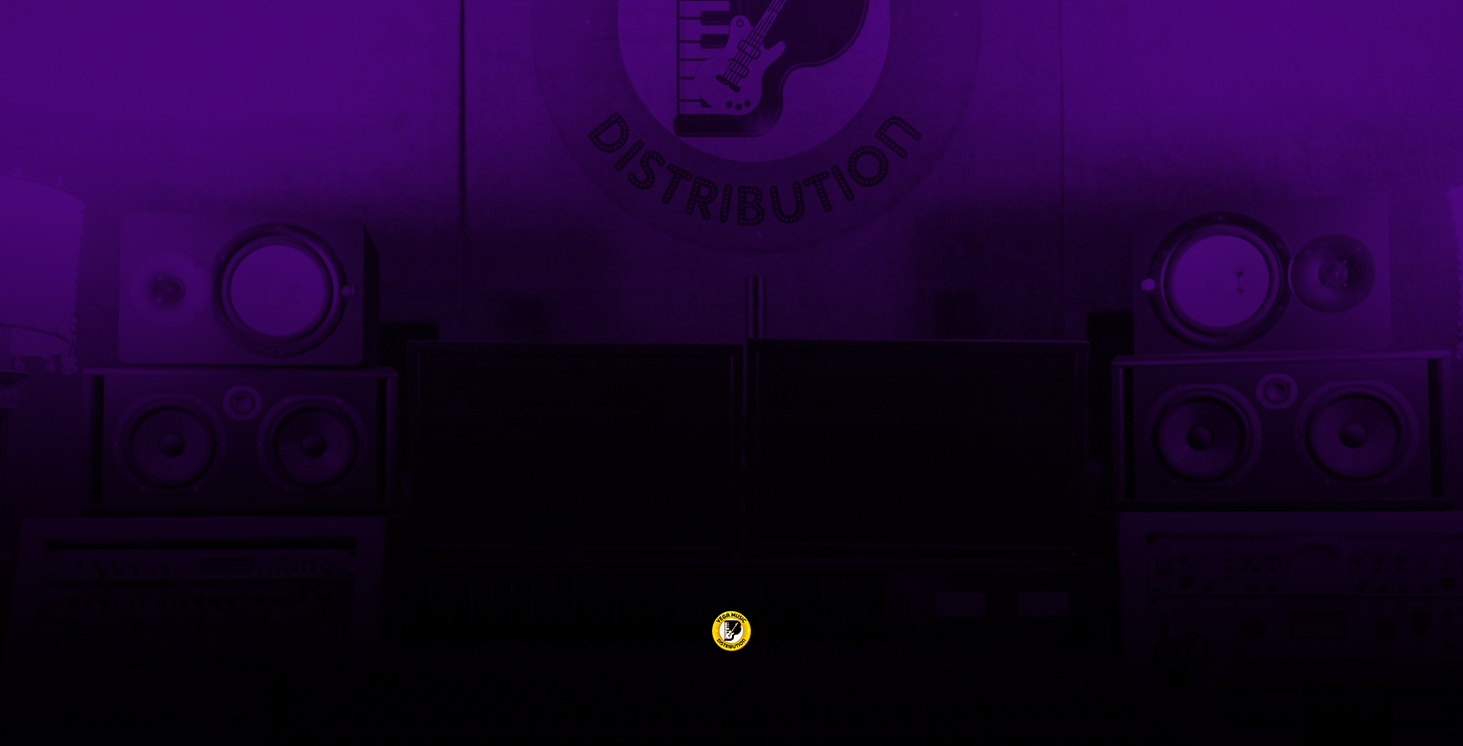
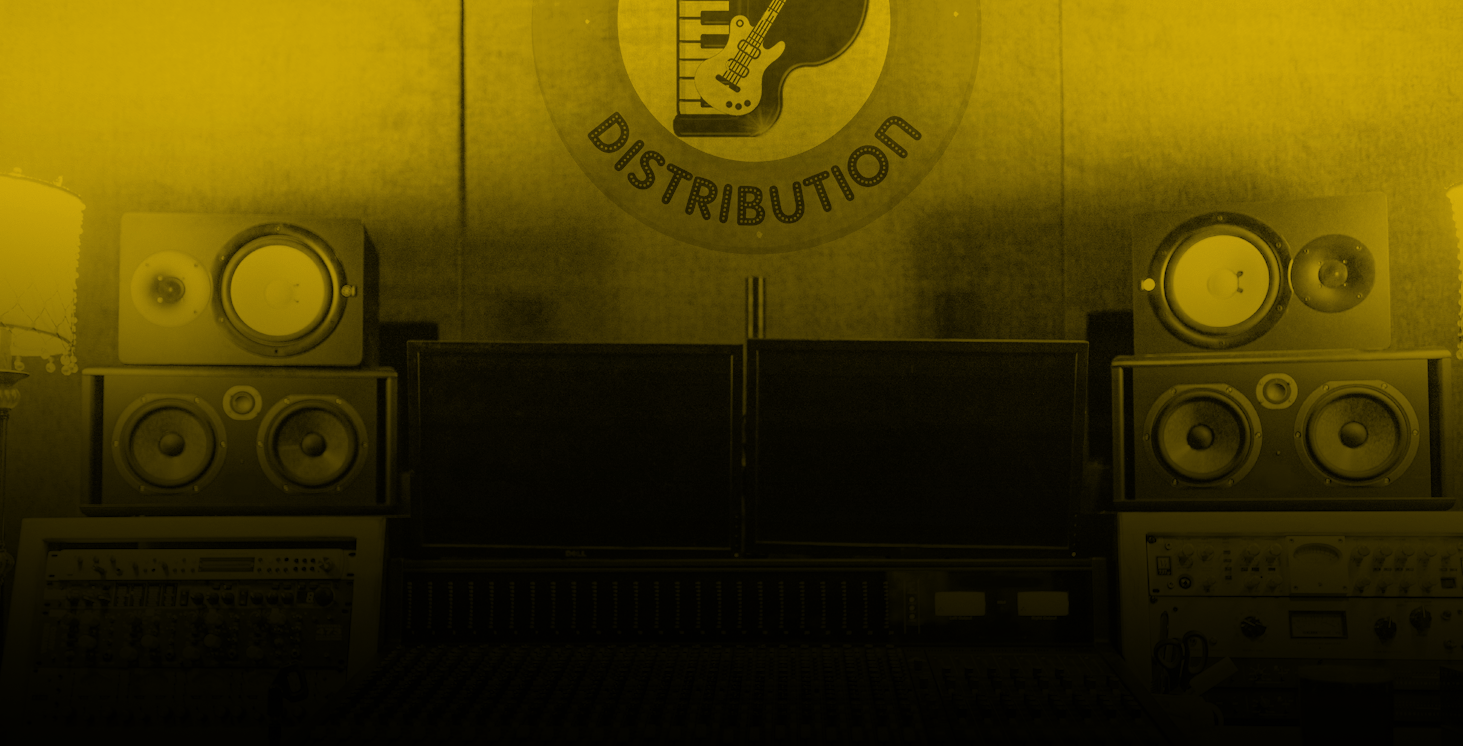
cambios

diff --git a/estilo.css b/estilo.css
@@ -21,8 +21,9 @@ h3 {
 
 
 .btn-informacion {
-    background-color: blueviolet;
+    background-color: black;
     color: white;
+    border: 1px #FFD000 solid;
     width: 60%;
     margin-top: 20px;
     border-radius: 20px;
@@ -35,6 +36,9 @@ h3 {
 .btn-informacion:hover {
     background-color: rgb(255, 255, 255);
     color: black;
+    -webkit-box-shadow: 0px 10px 13px -7px #FFD000, 5px 5px 15px 5px rgba(0, 0, 0, 0);
+    box-shadow: 0px 10px 13px -7px #FFD000, 5px 5px 15px 5px rgba(0, 0, 0, 0);
+    background-color: #FFD000;
 }
 
 .btn-registrarse {
@@ -85,6 +89,7 @@ p {
 
 .marquee img {
     height: 27px;
+    width: min-content;
     margin: 0 2rem;
     filter: brightness(0) invert(1);
     cursor: pointer;
@@ -122,7 +127,7 @@ p {
 
 /*  **************************************** SECTION 4 ************************************* */
 
-#btn-ver  {
+#btn-ver {
     background-color: #000000;
     color: rgb(255, 255, 255);
     padding: 15px;

diff --git a/index.php b/index.php
@@ -71,13 +71,13 @@
         </nav>
 
         <div class="p-5 text-center bg-image d-flex align-items-center justify-content-center" style="
-    background-image: url('./images/secciones/PT1.png');
-    background-repeat: no-repeat;
-    background-size: cover;
-    background-position: center;
-    color: white;
-    min-height: 100vh;
-">
+                background: linear-gradient(rgba(0, 0, 0, 0.700), rgba(0, 0, 0, 0.800)),url('./images/secciones/PT1.png');
+                background-repeat: no-repeat;
+                background-size: cover;
+                background-position: center;
+                color: white;
+                min-height: 100vh;
+            ">
             <div class="container">
                 <div class="row">
                     <div class="col-12 col-md-8 text-start">
@@ -110,8 +110,18 @@
                                 <img src="https://freelogopng.com/images/all_img/1656504144youtube-logo-png-white.png"
                                     alt="YouTube" height="40">
                                 <img src="./images/tidal-logo.png" alt="Tidal" height="40">
-                                <img src="./images/tiktok-logo.png" alt="TikTok" height="40">
-                                <img src="./images/deezer-logo.png" alt="Deezer" height="40">
+                                <!--                                 <img src="./images/tiktok-logo.png" alt="TikTok" height="40">
+ --> <img src="./images/deezer-logo.png" alt="Deezer" height="40">
+                                <img src="./images/amazon-logo.png" alt="Amazon Music" height="40">
+                                <img src="./images/applemusic-logo.png" alt="Apple Music" height="40">
+                                <img src="./images/spotify-logo.png" alt="Spotify" height="40">
+                            </div>
+                            <div class="marquee-content d-flex gap-4 align-items-center">
+                                <img src="https://freelogopng.com/images/all_img/1656504144youtube-logo-png-white.png"
+                                    alt="YouTube" height="40">
+                                <img src="./images/tidal-logo.png" alt="Tidal" height="40">
+                                <!--                                 <img src="./images/tiktok-logo.png" alt="TikTok" height="40">
+ --> <img src="./images/deezer-logo.png" alt="Deezer" height="40">
                                 <img src="./images/amazon-logo.png" alt="Amazon Music" height="40">
                                 <img src="./images/applemusic-logo.png" alt="Apple Music" height="40">
                                 <img src="./images/spotify-logo.png" alt="Spotify" height="40">
@@ -246,7 +256,7 @@
                 <div class="row align-items-center gy-5 py-5">
                     <div class="col-12 col-md-6">
                         <h1 class="fw-bold text-start" style="font-size: clamp(30px, 6vw, 60px); font-weight: 100;">
-                            <span id="texto-verde">Sube</span> y gana
+                            <span id="texto-dorado">Sube</span> y gana
                         </h1>
                         <p class="fs-5 text-start" style="font-size: clamp(14px, 2.5vw, 18px);">
                             Ya seas un artista experimentado o estés dando tus primeros pasos,
@@ -260,7 +270,7 @@
                             Nunca fue tan sencillo compartir tu música con el mundo.
                         </p>
                         <div class="text-start">
-                            <a href="#" class="btn btn-registrarse">Registrarse</a>
+                            <a href="#" class="btn btn-informacion">Registrarse</a>
                         </div>
                     </div>
 
@@ -422,15 +432,6 @@
 
 
     <script src="https://cdn.jsdelivr.net/npm/bootstrap@5.3.0/dist/js/bootstrap.bundle.min.js"></script>
-    <!-- <script>
-        const themeToggle = document.getElementById('themeToggle');
-        themeToggle.addEventListener('click', () => {
-            const htmlElement = document.documentElement;
-            const currentTheme = htmlElement.getAttribute('data-bs-theme');
-            htmlElement.setAttribute('data-bs-theme', currentTheme === 'light' ? 'dark' : 'light');
-            themeToggle.textContent = currentTheme === 'light' ? '☀' : '🌙';
-        });
-    </script> -->
 
 </body>
 
